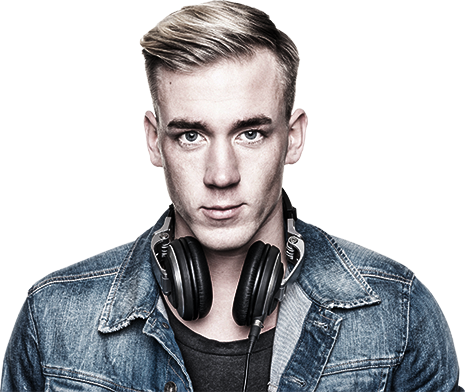
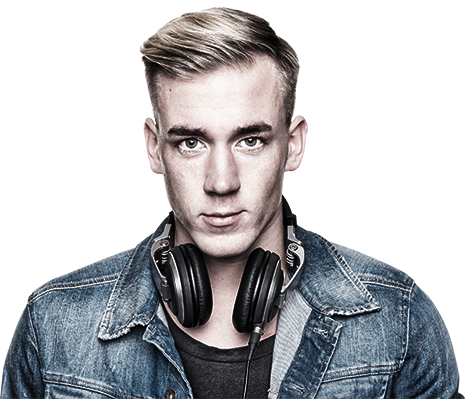
Section specialist opinion complete

diff --git a/Creative Agency Website/index.html b/Creative Agency Website/index.html
@@ -6,6 +6,7 @@
     <meta name="viewport" content="width=device-width, initial-scale=1.0">
     <meta http-equiv="X-UA-Compatible" content="ie=edge">
     <link href="https://fonts.googleapis.com/css?family=Lato:400,700,900&display=swap" rel="stylesheet">
+    <script src="https://kit.fontawesome.com/626783f830.js"></script>
     <link rel="stylesheet" href="https://stackpath.bootstrapcdn.com/bootstrap/3.4.1/css/bootstrap.min.css" integrity="sha384-HSMxcRTRxnN+Bdg0JdbxYKrThecOKuH5zCYotlSAcp1+c8xmyTe9GYg1l9a69psu" crossorigin="anonymous">
     <link rel="stylesheet" href="styles/style.css">
     <title>Creative Agency Website</title>
@@ -55,33 +56,68 @@
         <section class="specialist-opinion">
             <div id="carousel-example-generic" class="carousel slide" data-ride="carousel">
                 <!-- Indicators -->
-                <ol class="carousel-indicators">
+                <ol class="carousel-indicators is-position-carousel-indicators">
                   <li data-target="#carousel-example-generic" data-slide-to="0" class="active"></li>
                   <li data-target="#carousel-example-generic" data-slide-to="1"></li>
                   <li data-target="#carousel-example-generic" data-slide-to="2"></li>
+                  <li data-target="#carousel-example-generic" data-slide-to="3"></li>
                 </ol>
               
                 <!-- Wrapper for slides -->
-                <div class="carousel-inner" role="listbox">
+                <div class="carousel-inner is-bias-image" role="listbox">
                   <div class="item active">
-                    <img src="images/carousel3.png" alt="...">
-                    <div class="carousel-caption">
-                      ...
+                    <img src="images/carousel3.png" alt="John Doe">
+                    <div class="carousel-caption is-bias-caption carousel-caption-style">
+                      <i class="fas fa-quote-left carousel-quotes"></i>
+                      <p>Lorem ipsum dolor sit amet, consectetur adipiscing elit, sed do eiusmod tempor incididunt ut labore et dolore magna aliqua. Ut enim ad minim veniam, quis nostrud exercitation ullamco laboris nisi ut aliquip ex ea commodo consequat. Duis aute irure dolor in reprehenderit in voluptate velit esse cillum dolore eu fugiat nulla pariatur.</p>
+                      <i class="fas fa-quote-right carousel-quotes"></i>
+                      <div></div>
+                        <div class="signature">
+                          <span class="author">John Doe</span>
+                          <span class="position">Graphic Designer</span>
+                        </div>
                     </div>
                   </div>
                   <div class="item">
-                    <img src="images/carousel2.png" alt="...">
-                    <div class="carousel-caption">
-                      ...
-                    </div>
+                    <img src="images/carousel2.png" alt="John Smith">
+                    <div class="carousel-caption is-bias-caption carousel-caption-style">
+                        <i class="fas fa-quote-left carousel-quotes"></i>
+                        <p>Lorem ipsum dolor sit amet, consectetur adipiscing elit, sed do eiusmod tempor incididunt ut labore et dolore magna aliqua. Ut enim ad minim veniam, quis nostrud exercitation ullamco laboris nisi ut aliquip ex ea commodo consequat. Duis aute irure dolor in reprehenderit in voluptate velit esse cillum dolore eu fugiat nulla pariatur.</p>
+                        <i class="fas fa-quote-right carousel-quotes"></i>
+                        <div></div>
+                          <div class="signature">
+                            <span class="author">John Smith</span>
+                            <span class="position">Developer</span>
+                          </div>
+                      </div>
                   </div>
                   <div class="item">
-                    <img src="images/carousel1.png" alt="...">
-                    <div class="carousel-caption">
-                      ...
-                    </div>
+                    <img src="images/carousel1.png" alt="Jane Doe">
+                    <div class="carousel-caption is-bias-caption carousel-caption-style">
+                        <i class="fas fa-quote-left carousel-quotes"></i>
+                        <p>Lorem ipsum dolor sit amet, consectetur adipiscing elit, sed do eiusmod tempor incididunt ut labore et dolore magna aliqua. Ut enim ad minim veniam, quis nostrud exercitation ullamco laboris nisi ut aliquip ex ea commodo consequat. Duis aute irure dolor in reprehenderit in voluptate velit esse cillum dolore eu fugiat nulla pariatur.</p>
+                        <i class="fas fa-quote-right carousel-quotes"></i>
+                        <div></div>
+                          <div class="signature">
+                            <span class="author">Jane Doe</span>
+                            <span class="position">Designer</span>
+                          </div>
+                      </div>
                   </div>
-                  ...
+                  <div class="item">
+                    <img src="images/carousel4.png" alt="Jhon Mosk">
+                    <div class="carousel-caption is-bias-caption carousel-caption-style">
+                        <i class="fas fa-quote-left carousel-quotes"></i>
+                        <p>Lorem ipsum dolor sit amet, consectetur adipiscing elit, sed do eiusmod tempor incididunt ut labore et dolore magna aliqua. Ut enim ad minim veniam, quis nostrud exercitation ullamco laboris nisi ut aliquip ex ea commodo consequat. Duis aute irure dolor in reprehenderit in voluptate velit esse cillum dolore eu fugiat nulla pariatur.</p>
+                        <i class="fas fa-quote-right carousel-quotes"></i>
+                        <div></div>
+                          <div class="signature">
+                            <span class="author">Jhon Mosk</span>
+                            <span class="position">Web Developer</span>
+                          </div>
+                      </div>
+                  </div>
+                  
                 </div>              
               </div>
         </section>

diff --git a/Creative Agency Website/styles/style.less b/Creative Agency Website/styles/style.less
@@ -16,7 +16,6 @@ body {
 
 
     header {
-        // height: 620px;
         position: relative;        
 
         nav {
@@ -171,4 +170,68 @@ body {
     background-color: #088298;
     background-blend-mode: overlay;
     padding: 0 200px 0 200px;
+
+    .is-bias-image {
+        top: 66px;
+    }
+
+    .is-bias-caption {
+        top: 50px;
+    }
+
+    .is-position-carousel-indicators {
+        top: 417px;
+        left: 837px;
+    }
+
+    .carousel-indicators {
+
+        li {
+        background-color: #ffffff;
+        border: none;
+        }
+
+        .active{
+        background-color: #00aeed;
+        border: none;
+        }
+    }
+
+    .carousel-caption-style {
+        display: grid;
+        grid-template-columns: 117px 400px 117px;
+        grid-gap: 30px;
+        font-family: 'Lato', sans-serif;
+        position: absolute;
+        left: 492px;
+        top: -25px;
+    
+        .carousel-quotes {
+            width: 117px;
+            height: 86px;
+            color: #00aeed;
+            font-size: 8.6rem;
+            letter-spacing: 1.8px;
+        }
+
+        p {
+            font-size: 17px;
+            line-height: 30px;
+            letter-spacing: 0.42px;
+            text-align: justify;
+        }
+
+        .signature {
+            .author {
+                display: block;
+                font-size: 30px;
+                letter-spacing: 0.48px;
+            }
+
+            .position {
+                font-size: 15px;
+                letter-spacing: 0.24px;
+            }
+        }
+    }
 }

diff --git a/Creative Agency Website/styles/style.css b/Creative Agency Website/styles/style.css
@@ -148,3 +148,52 @@ body {
   background-blend-mode: overlay;
   padding: 0 200px 0 200px;
 }
+.specialist-opinion .is-bias-image {
+  top: 66px;
+}
+.specialist-opinion .is-bias-caption {
+  top: 50px;
+}
+.specialist-opinion .is-position-carousel-indicators {
+  top: 417px;
+  left: 837px;
+}
+.specialist-opinion .carousel-indicators li {
+  background-color: #ffffff;
+  border: none;
+}
+.specialist-opinion .carousel-indicators .active {
+  background-color: #00aeed;
+  border: none;
+}
+.specialist-opinion .carousel-caption-style {
+  display: grid;
+  grid-template-columns: 117px 400px 117px;
+  grid-gap: 30px;
+  font-family: 'Lato', sans-serif;
+  position: absolute;
+  left: 492px;
+  top: -25px;
+}
+.specialist-opinion .carousel-caption-style .carousel-quotes {
+  width: 117px;
+  height: 86px;
+  color: #00aeed;
+  font-size: 8.6rem;
+  letter-spacing: 1.8px;
+}
+.specialist-opinion .carousel-caption-style p {
+  font-size: 17px;
+  line-height: 30px;
+  letter-spacing: 0.42px;
+  text-align: justify;
+}
+.specialist-opinion .carousel-caption-style .signature .author {
+  display: block;
+  font-size: 30px;
+  letter-spacing: 0.48px;
+}
+.specialist-opinion .carousel-caption-style .signature .position {
+  font-size: 15px;
+  letter-spacing: 0.24px;
+}
